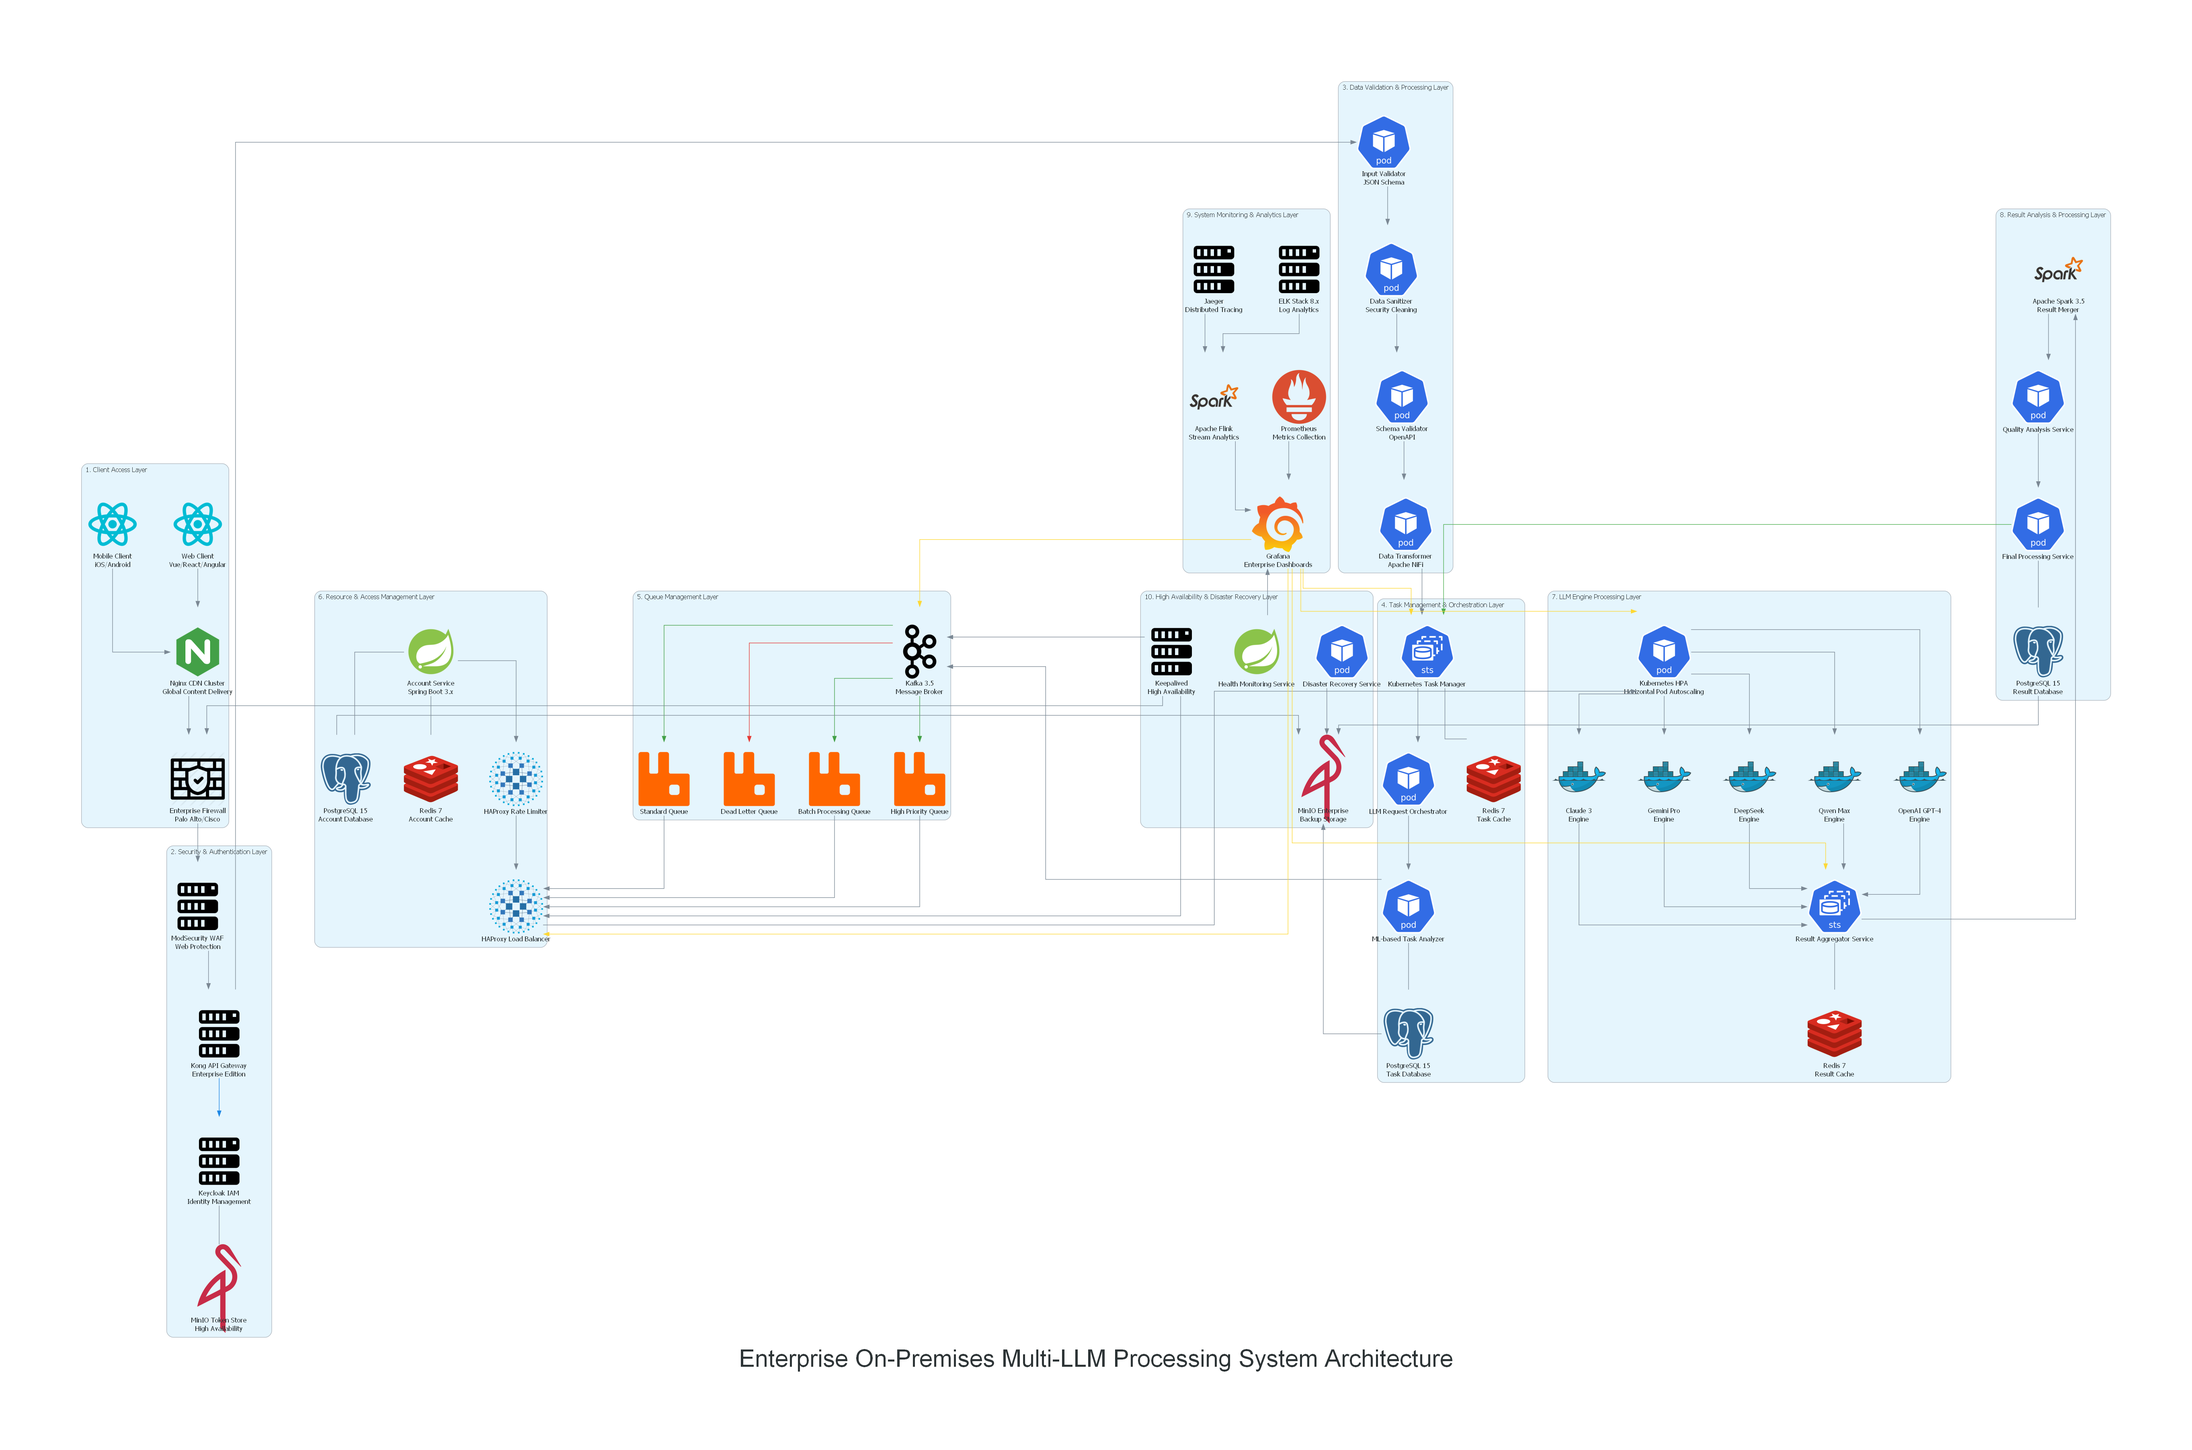
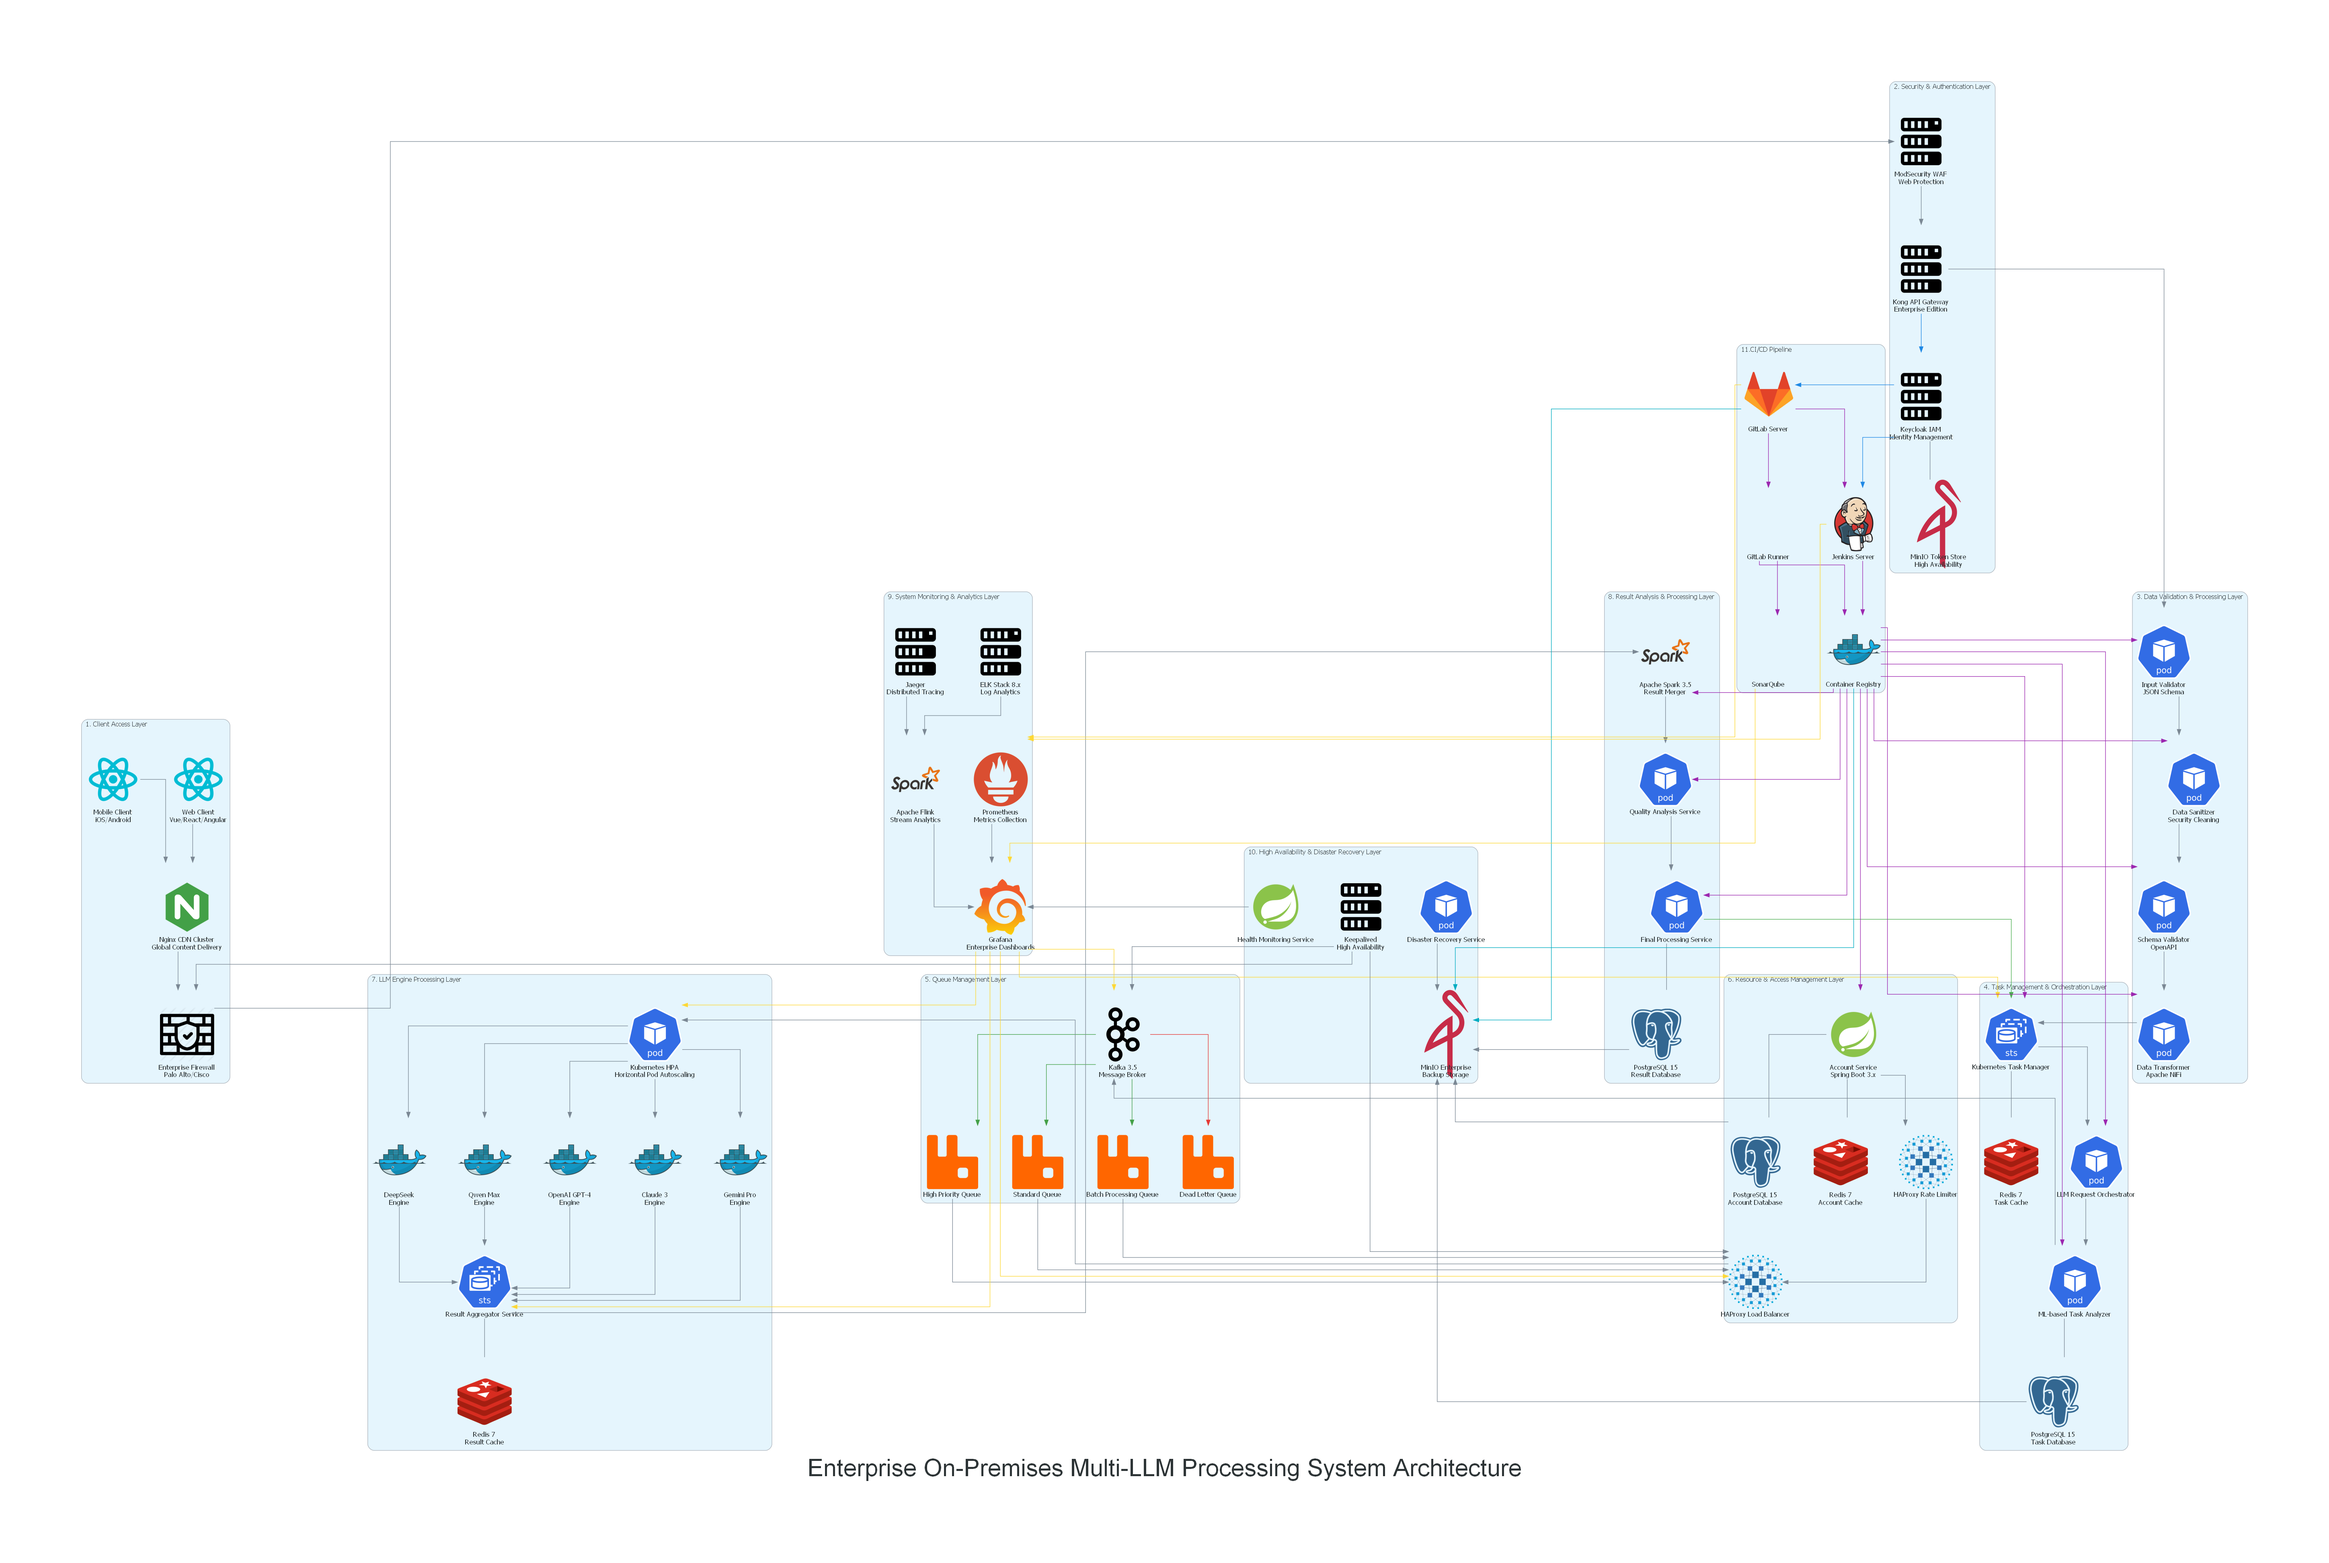
Update 11.CI/CD Pipeline for Onpremis

diff --git a/LLM Task Distribution System (Microservice)/6.ClaudeAI/1.Multi-LLM-Process/Workspace/enterprise-llm-system/services/task-manager/src/main/java/com/llm/taskmanager/model/Task.java b/LLM Task Distribution System (Microservice)/6.ClaudeAI/1.Multi-LLM-Process/Workspace/enterprise-llm-system/services/task-manager/src/main/java/com/llm/taskmanager/model/Task.java
@@ -1,16 +1,25 @@
 package com.llm.taskmanager.model;
 
 import lombok.Data;
+import lombok.Builder;
+import lombok.NoArgsConstructor;
+import lombok.AllArgsConstructor;
 import com.fasterxml.jackson.databind.JsonNode;
-import com.fasterxml.jackson.databind.ObjectMapper;
+import com.vladmihalcea.hibernate.type.json.JsonBinaryType;
 
 import javax.persistence.*;
+import org.hibernate.annotations.Type;
+import org.hibernate.annotations.TypeDef;
 import java.time.ZonedDateTime;
 import java.util.UUID;
 
 @Entity
 @Table(name = "tasks")
 @Data
+@Builder
+@NoArgsConstructor
+@AllArgsConstructor
+@TypeDef(name = "jsonb", typeClass = JsonBinaryType.class)
 public class Task {
     @Id
     @GeneratedValue(strategy = GenerationType.AUTO)
@@ -28,16 +37,20 @@ public class Task {
     private String taskType;
 
     @Column(name = "priority")
+    @Builder.Default
     private Integer priority = 1;
 
     @Column(name = "status", nullable = false)
+    @Builder.Default
     private String status = "pending";
 
-    @Column(name = "input_data", columnDefinition = "jsonb", nullable = false)
-    private String inputDataJson;
+    @Type(type = "jsonb")
+    @Column(name = "input_data", columnDefinition = "jsonb")
+    private JsonNode inputData;
 
+    @Type(type = "jsonb")
     @Column(name = "output_data", columnDefinition = "jsonb")
-    private String outputDataJson;
+    private JsonNode outputData;
 
     @Column(name = "error_message")
     private String errorMessage;
@@ -61,9 +74,11 @@ public class Task {
     private UUID assignedWorkerId;
 
     @Column(name = "retry_count")
+    @Builder.Default
     private Integer retryCount = 0;
 
     @Column(name = "max_retries")
+    @Builder.Default
     private Integer maxRetries = 3;
 
     @ManyToOne(fetch = FetchType.LAZY)
@@ -73,77 +88,9 @@ public class Task {
     @Column(name = "execution_order")
     private Integer executionOrder;
 
+    @Type(type = "jsonb")
     @Column(name = "metadata", columnDefinition = "jsonb")
-    private String metadataJson;
-
-    @Transient
-    private JsonNode inputData;
-
-    @Transient
-    private JsonNode outputData;
-
-    @Transient
     private JsonNode metadata;
-
-    public JsonNode getInputData() {
-        if (inputData == null && inputDataJson != null) {
-            try {
-                inputData = new ObjectMapper().readTree(inputDataJson);
-            } catch (Exception e) {
-                throw new RuntimeException("Error parsing input data", e);
-            }
-        }
-        return inputData;
-    }
-
-    public void setInputData(JsonNode inputData) {
-        this.inputData = inputData;
-        try {
-            this.inputDataJson = new ObjectMapper().writeValueAsString(inputData);
-        } catch (Exception e) {
-            throw new RuntimeException("Error serializing input data", e);
-        }
-    }
-
-    public JsonNode getOutputData() {
-        if (outputData == null && outputDataJson != null) {
-            try {
-                outputData = new ObjectMapper().readTree(outputDataJson);
-            } catch (Exception e) {
-                throw new RuntimeException("Error parsing output data", e);
-            }
-        }
-        return outputData;
-    }
-
-    public void setOutputData(JsonNode outputData) {
-        this.outputData = outputData;
-        try {
-            this.outputDataJson = new ObjectMapper().writeValueAsString(outputData);
-        } catch (Exception e) {
-            throw new RuntimeException("Error serializing output data", e);
-        }
-    }
-
-    public JsonNode getMetadata() {
-        if (metadata == null && metadataJson != null) {
-            try {
-                metadata = new ObjectMapper().readTree(metadataJson);
-            } catch (Exception e) {
-                throw new RuntimeException("Error parsing metadata", e);
-            }
-        }
-        return metadata;
-    }
-
-    public void setMetadata(JsonNode metadata) {
-        this.metadata = metadata;
-        try {
-            this.metadataJson = new ObjectMapper().writeValueAsString(metadata);
-        } catch (Exception e) {
-            throw new RuntimeException("Error serializing metadata", e);
-        }
-    }
 
     @PrePersist
     protected void onCreate() {

diff --git a/LLM Task Distribution System (Microservice)/6.ClaudeAI/1.Multi-LLM-Process/Workspace/enterprise-llm-system/Analysis-systems/Onpremis-implement/enterprise_architecture_vi.py b/LLM Task Distribution System (Microservice)/6.ClaudeAI/1.Multi-LLM-Process/Workspace/enterprise-llm-system/Analysis-systems/Onpremis-implement/enterprise_architecture_vi.py
@@ -14,6 +14,8 @@ from diagrams.k8s.compute import Pod, StatefulSet
 from diagrams.generic.network import Firewall
 from diagrams.generic.storage import Storage
 from diagrams.custom import Custom 
+from diagrams.onprem.ci import Jenkins
+from diagrams.onprem.vcs import Git, Gitlab
 
 # Định nghĩa màu sắc cho các luồng xử lý
 EDGE_COLORS = {
@@ -22,7 +24,8 @@ EDGE_COLORS = {
     "warning": "#FDD835",     # Giám sát
     "error": "#E53935",       # Xử lý lỗi
     "info": "#00ACC1",        # Luồng dữ liệu
-    "success": "#4CAF50"      # Xử lý thành công
+    "success": "#4CAF50",      # Xử lý thành công
+    "cicd": "#9C27B0"        # Luồng CI/CD
 }
 
 # Cấu hình style cho nodes
@@ -33,7 +36,7 @@ NODE_CONFIG = {
 }
 
 with Diagram(
-    "Final On-Premises Multi-LLM System Architecture",
+    "Final On-Premises Architecture with CICD",
     show=True,
     direction="TB",
     graph_attr={
@@ -71,7 +74,7 @@ with Diagram(
         transformer = Pod("Data Transformer\nApache NiFi")
         
         kong >> validator >> sanitizer >> schema >> transformer
-
+ 
     # 4. Tầng Điều Phối Tác Vụ
     with Cluster("4. Tầng Điều Phối Tác Vụ"):
         task_mgr = StatefulSet("K8s Task Manager")
@@ -169,3 +172,44 @@ with Diagram(
         k8s_scaling,
         collector
     ]
+
+      # New CI/CD Cluster
+    with Cluster("11.CI/CD Pipeline"):
+        gitlab = Gitlab("GitLab Server")
+        gitlab_runner = Custom("GitLab Runner", "./icons/gitlab-runner.png")
+        jenkins = Jenkins("Jenkins Server")
+        sonarqube = Custom("SonarQube", "./icons/sonarqube.png")
+        registry = Docker("Container Registry")
+        
+        # CI/CD Flow
+        gitlab >> Edge(color=EDGE_COLORS["cicd"]) >> gitlab_runner
+        gitlab_runner >> Edge(color=EDGE_COLORS["cicd"]) >> [sonarqube, registry]
+        gitlab >> Edge(color=EDGE_COLORS["cicd"]) >> jenkins
+        jenkins >> Edge(color=EDGE_COLORS["cicd"]) >> registry
+
+    
+    # Add CI/CD Integration connections
+    registry >> Edge(color=EDGE_COLORS["cicd"]) >> [
+        validator,
+        sanitizer,
+        schema,
+        transformer,
+        task_mgr,
+        llm_orch,
+        task_analyzer,
+        account_svc,
+        merger,
+        result_analyzer,
+        final_proc
+    ]
+
+    # Add monitoring integration for CI/CD
+    gitlab >> Edge(color=EDGE_COLORS["warning"]) >> prom
+    jenkins >> Edge(color=EDGE_COLORS["warning"]) >> prom
+    sonarqube >> Edge(color=EDGE_COLORS["warning"]) >> grafana
+
+    # Add backup integration for CI/CD
+    [gitlab, registry] >> Edge(color=EDGE_COLORS["info"]) >> backup
+
+    # Add security integration for CI/CD
+    keycloak >> Edge(color=EDGE_COLORS["primary"]) >> [gitlab, jenkins]    

diff --git a/LLM Task Distribution System (Microservice)/6.ClaudeAI/1.Multi-LLM-Process/Workspace/enterprise-llm-system/Analysis-systems/Onpremis-implement/enterprise_architecture_en.py b/LLM Task Distribution System (Microservice)/6.ClaudeAI/1.Multi-LLM-Process/Workspace/enterprise-llm-system/Analysis-systems/Onpremis-implement/enterprise_architecture_en.py
@@ -19,6 +19,8 @@ from diagrams.k8s.compute import Pod, StatefulSet
 from diagrams.generic.network import Firewall
 from diagrams.generic.storage import Storage
 from diagrams.custom import Custom 
+from diagrams.onprem.ci import Jenkins
+from diagrams.onprem.vcs import Git, Gitlab
 
 # System-wide configuration
 GRAPH_ATTR = {
@@ -37,7 +39,8 @@ EDGE_COLORS = {
     "warning": "#FDD835",     # Monitoring alerts
     "error": "#E53935",       # Error handling
     "info": "#00ACC1",        # Data flow
-    "success": "#4CAF50"      # Successful completion
+    "success": "#4CAF50",      # Successful completion
+    "cicd": "#9C27B0"        # Luồng CI/CD
 }
 
 # Node styling configuration
@@ -187,6 +190,47 @@ def create_enterprise_architecture():
             k8s_scaling,
             collector
         ]
+
+           # New CI/CD Cluster
+        with Cluster("11.CI/CD Pipeline"):
+            gitlab = Gitlab("GitLab Server")
+            gitlab_runner = Custom("GitLab Runner", "./icons/gitlab-runner.png")
+            jenkins = Jenkins("Jenkins Server")
+            sonarqube = Custom("SonarQube", "./icons/sonarqube.png")
+            registry = Docker("Container Registry")
+            
+            # CI/CD Flow
+            gitlab >> Edge(color=EDGE_COLORS["cicd"]) >> gitlab_runner
+            gitlab_runner >> Edge(color=EDGE_COLORS["cicd"]) >> [sonarqube, registry]
+            gitlab >> Edge(color=EDGE_COLORS["cicd"]) >> jenkins
+            jenkins >> Edge(color=EDGE_COLORS["cicd"]) >> registry
+
+        
+        # Add CI/CD Integration connections
+        registry >> Edge(color=EDGE_COLORS["cicd"]) >> [
+            validator,
+            sanitizer,
+            schema,
+            transformer,
+            task_mgr,
+            llm_orch,
+            task_analyzer,
+            account_svc,
+            merger,
+            result_analyzer,
+            final_proc
+        ]
+
+        # Add monitoring integration for CI/CD
+        gitlab >> Edge(color=EDGE_COLORS["warning"]) >> prom
+        jenkins >> Edge(color=EDGE_COLORS["warning"]) >> prom
+        sonarqube >> Edge(color=EDGE_COLORS["warning"]) >> grafana
+
+        # Add backup integration for CI/CD
+        [gitlab, registry] >> Edge(color=EDGE_COLORS["info"]) >> backup
+
+        # Add security integration for CI/CD
+        keycloak >> Edge(color=EDGE_COLORS["primary"]) >> [gitlab, jenkins]    
 
 if __name__ == "__main__":
     create_enterprise_architecture()

diff --git a/LLM Task Distribution System (Microservice)/6.ClaudeAI/1.Multi-LLM-Process/Workspace/enterprise-llm-system/services/task-manager/src/main/java/com/llm/taskmanager/controller/TaskController.java b/LLM Task Distribution System (Microservice)/6.ClaudeAI/1.Multi-LLM-Process/Workspace/enterprise-llm-system/services/task-manager/src/main/java/com/llm/taskmanager/controller/TaskController.java
@@ -52,17 +52,18 @@ public class TaskController {
 
     @PostMapping("/tasks")
     public ResponseEntity<TaskResponse> createTask(@Valid @RequestBody TaskRequest request) {
-        Task task = new Task();
-        task.setProject(taskService.getProject(request.getProjectId()));
-        task.setUserId(request.getUserId());
-        task.setTaskType(request.getTaskType());
-        task.setInputData(request.getInputData());
-        task.setPriority(request.getPriority());
-        task.setDeadline(request.getDeadline());
-        task.setParentTask(request.getParentTaskId() != null ? 
-            taskService.getTask(request.getParentTaskId()) : null);
-        task.setExecutionOrder(request.getExecutionOrder());
-        task.setMetadata(request.getMetadata());
+        Task task = Task.builder()
+            .project(taskService.getProject(request.getProjectId()))
+            .userId(request.getUserId())
+            .taskType(request.getTaskType())
+            .inputData(request.getInputData())
+            .priority(request.getPriority() != null ? request.getPriority() : 1)
+            .deadline(request.getDeadline())
+            .parentTask(request.getParentTaskId() != null ? 
+                taskService.getTask(request.getParentTaskId()) : null)
+            .executionOrder(request.getExecutionOrder())
+            .metadata(request.getMetadata())
+            .build();
 
         Task createdTask = taskService.createTask(task);
 
